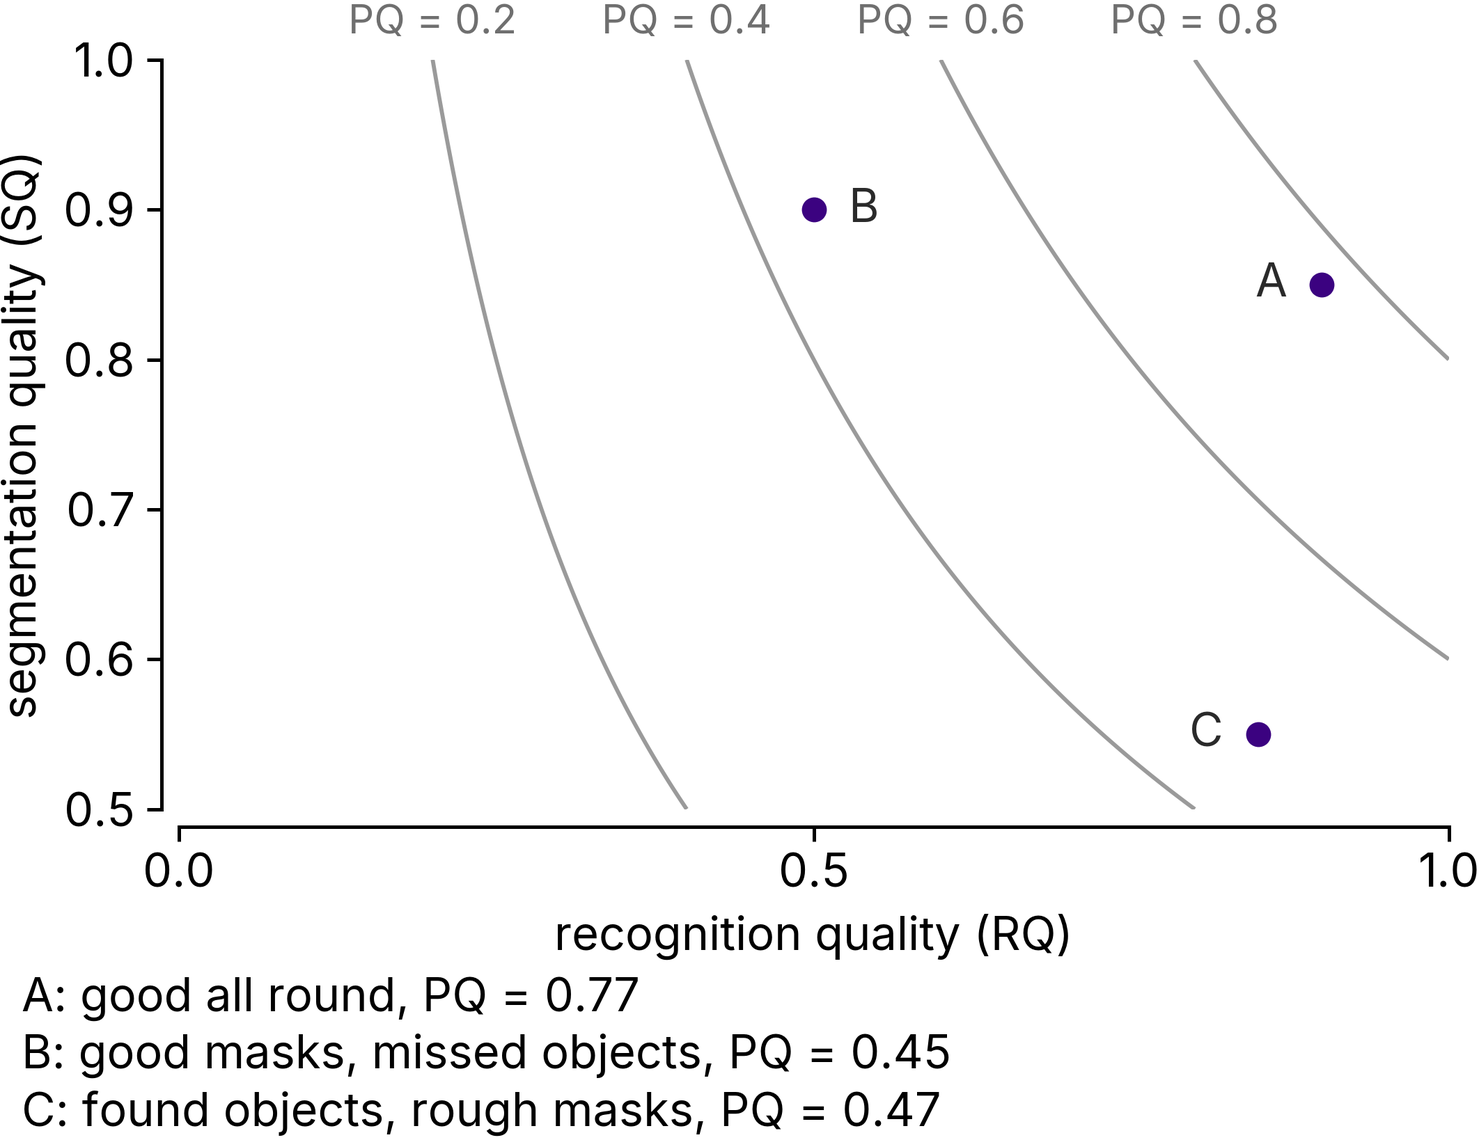
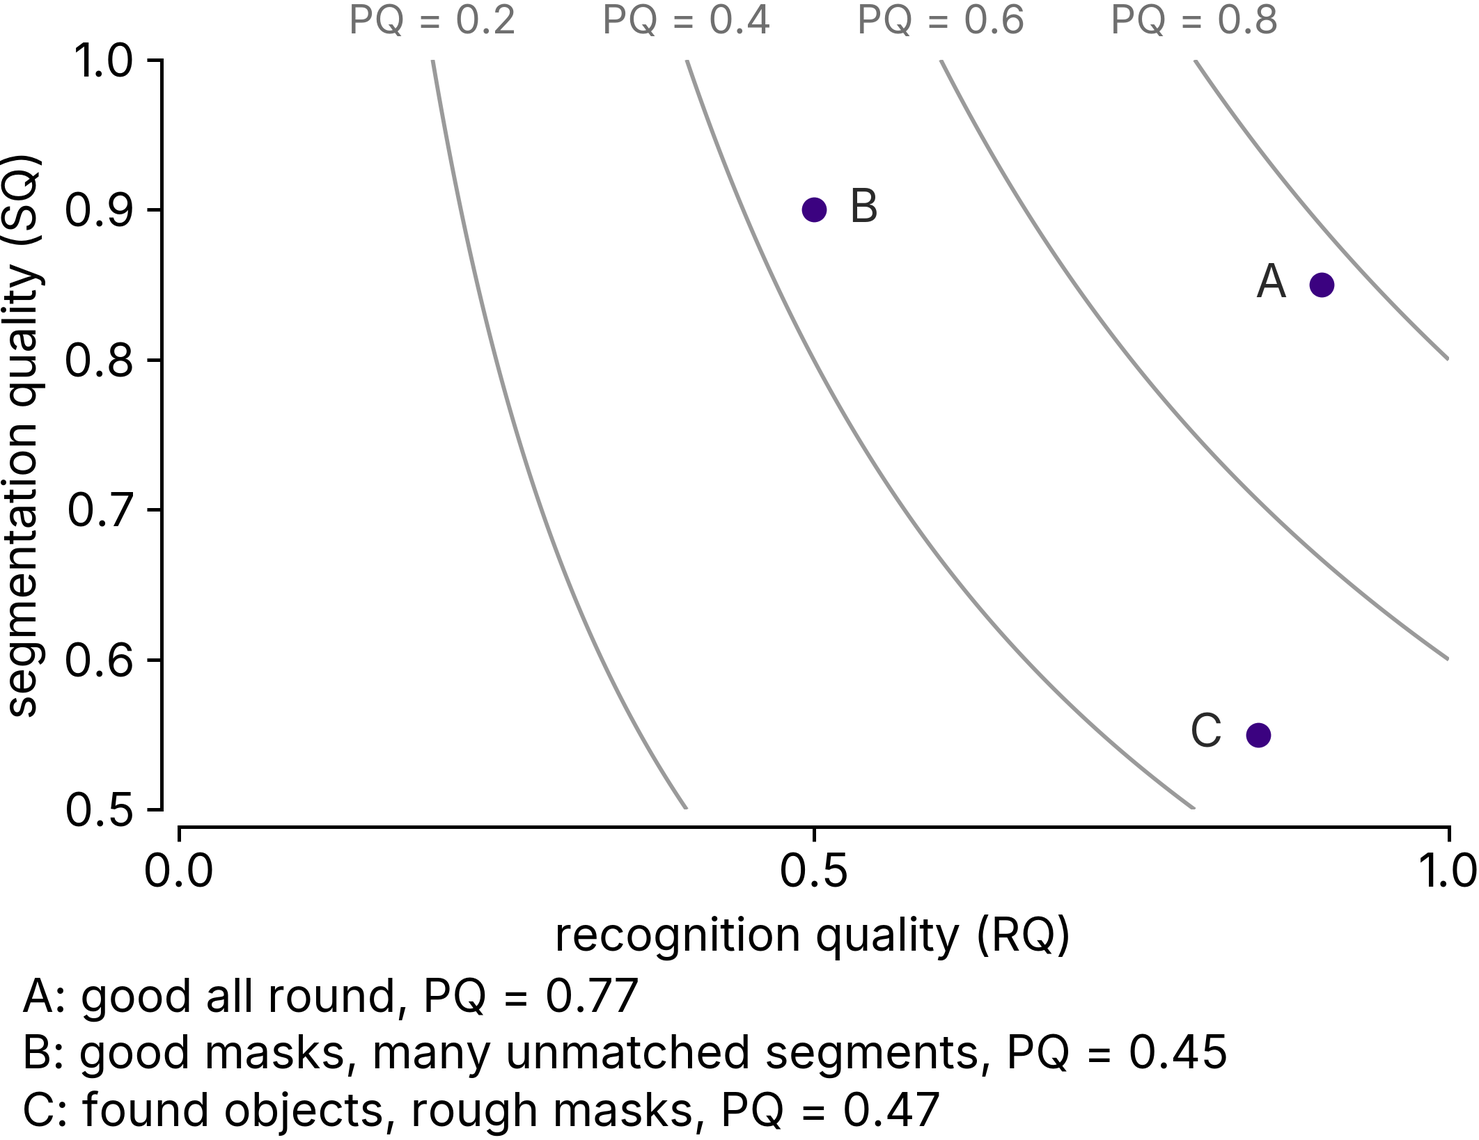
Annotate the remaining formulas and correct decision map labels

diff --git a/book/2-regression.tex b/book/2-regression.tex
@@ -11,10 +11,9 @@ This chapter explains these ways of measuring error and when each is useful. We 
 \begin{forest} dmap, compact
 [, coordinate, l sep=0pt
   [{\dl{a quantile or interval bound}{\mref{Pinball Loss}{sec:pinball-loss}}}]
-  [{\dl{direction only: up or down}{\mref{MDA}{sec:mda}}}]
   [{\dm{a value}{How should we read the error?}}
     [{\dm{in target units}{Penalize big misses more?}}
-      [{\dl{yes}{\mref{MSE}{sec:mse}, \mref{RMSE}{sec:rmse}}}]
+      [{\dl{yes}{\mref{RMSE}{sec:rmse}; \mref{MSE}{sec:mse} in squared units}}]
       [{\dl{no}{\mref{MAE}{sec:mae}}}]
     ]
     [{\dm{as a percentage}{Zeros or tiny target values?}}
@@ -23,15 +22,16 @@ This chapter explains these ways of measuring error and when each is useful. We 
       [{\dl{yes: keep it bounded}{\mref{sMAPE}{sec:smape}}}]
     ]
     [{\dl{against a naive forecast}{\mref{MASE}{sec:mase}}}]
+    [{\dl{by its direction only}{\mref{MDA}{sec:mda}}}]
     [{\dl{in log space}{\mref{MSLE}{sec:msle}, \mref{RMSLE}{sec:rmsle}}}]
     [{\dm{as a deviance}{What kind of target?}}
       [{\dl{counts}{\mref{MPD}{sec:mpd}}}]
       [{\dl{positive and skewed}{\mref{MGD}{sec:mgd}}}]
     ]
-    [{\dm{as a share of\\the variance}{Compared with what?}}
-      [{\dl{squared error, bias included}{\mref{R-squared}{sec:r-squared}}}]
-      [{\dl{any deviance}{\mref{D2}{sec:d2}}}]
-      [{\dl{ignore a constant bias}{\mref{Explained Variance Score}{sec:explained-variance-score}}}]
+    [{\dm{as improvement\\over a baseline}{Which error?}}
+      [{\dl{squared error vs.\ mean}{\mref{R-squared}{sec:r-squared}}}]
+      [{\dl{absolute error vs.\ median}{\mref{D2}{sec:d2}}}]
+      [{\dl{error variance, ignoring\\a constant bias}{\mref{Explained Variance Score}{sec:explained-variance-score}}}]
     ]
   ]
 ]
@@ -551,17 +551,18 @@ MASE divides a model's evaluation MAE by the error of a simple forecast on the t
         \node[inner sep=2pt, font=\Large] (a) {
             {
                 $\displaystyle
-                MASE = \frac{1}{{\color{nmlred}n}} \sum_{t=1}^n \frac{|{\color{nmlcyan}Y_t} - {\color{nmlpurple}\hat{Y}_t}|}{\frac{1}{n-1} \sum_{t=2}^n |{\color{nmlcyan}Y_t} - {\color{nmlcyan}Y_{t-1}}|}
+                MASE = \frac{1}{{\color{nmlred}h}} \sum_{j=1}^{h} \frac{|{\color{nmlcyan}Y_{T+j}} - {\color{nmlpurple}\hat{Y}_{T+j}}|}{\frac{1}{{\color{nmlred}T-1}} \sum_{t=2}^{T} |{\color{nmlcyan}Y_t} - {\color{nmlcyan}Y_{t-1}}|}
                 $
             }
         };
-        \draw[-latex,nmlred, semithick] ($(a.south)+(-1.50,0.25)$) to[bend left=15] node[pos=1, left] {number of samples} +(-1.00,-0.50);
-        \draw[-latex,nmlpurple, semithick] ($(a.north)+(2.30,0.00)$) to[bend left=15] node[pos=1, right] {forecast value} +(1.00,0.50);
-        \draw[-latex,nmlcyan,semithick] ($(a.north)+(1.25,-0.15)$) to[bend right=15] node[pos=1, left] {actual value} +(-1.00,0.50);
+        \draw[-latex,nmlred, semithick] ($(a.north)+(-0.95,-1.12)$) to[bend left=15] node[pos=1, left] {forecasts evaluated} +(-0.90,0.25);
+        \draw[-latex,nmlcyan,semithick] ($(a.north)+(0.55,-0.25)$) to[bend right=15] node[pos=1, left] {actual value} +(-0.60,0.45);
+        \draw[-latex,nmlpurple, semithick] ($(a.north)+(2.55,-0.30)$) to[bend left=15] node[pos=1, right] {forecast value} +(0.80,0.45);
+        \draw[-latex,nmlred, semithick] ($(a.south)+(-0.95,0.45)$) to[bend left=15] node[pos=1, left] {changes in the training history} +(-1.00,-0.40);
     }
 \end{metricformula}
 
-The formula illustrates both averages on one series. For future forecasts, keep the denominator fixed from the training history. MASE $=0.6$ means the model's MAE is $40\%$ below that historical scale; it does not establish that the model beats a naive forecast on the same future period.
+The denominator uses the $T$ values of the training history; the $h$ evaluated forecasts come after it. For seasonal data with period $m$, use $Y_t - Y_{t-m}$ instead. MASE $=0.6$ means the model's MAE is $40\%$ below that historical scale; it does not establish that the model beats a naive forecast on the same future period.
 
 \metricheading{When to use}
 
@@ -607,17 +608,17 @@ MDA measures how often a forecast gets the direction of a change right. A stock-
     \node[inner sep=2pt, font=\Large] (a) {
         {
             $\displaystyle
-            MDA = \frac{1}{{\color{nmlred}n}} \sum_{t=1}^{n} {\color{nmlgreen}\mathds{1}}_{{\color{nmlyellow}sign}({\color{nmlcyan}y_t} - {\color{nmlcyan}y_{t-1}}) == {\color{nmlyellow}sign}({\color{nmlpurple}\hat{y}_t} - {\color{nmlcyan}y_{t-1}})}
+            MDA = \frac{1}{{\color{nmlred}n}} \sum_{t=1}^{n} {\color{nmlgreen}\mathds{1}}\big[\, {\color{nmlyellow}\operatorname{sign}}({\color{nmlcyan}y_t} - {\color{nmlcyan}y_{t-1}}) = {\color{nmlyellow}\operatorname{sign}}({\color{nmlpurple}\hat{y}_t} - {\color{nmlcyan}y_{t-1}}) \,\big]
             $
         }
     };
 
     % Draw arrows for annotations
-    \draw[-latex, nmlred, semithick] ($(a.south)+(-2.05,0.30)$) to[bend left=15] node[pos=1, left,align=center] {number \\ of samples} +(-1.00,-0.50);
-    \draw[-latex,nmlcyan,semithick] ($(a.north)+(0.70,-0.65)$) to[bend right=27] node[pos=1, left] {actual value} +(-0.60,0.85);
-    \draw[-latex, nmlpurple, semithick] ($(a.north)+(3.00,-0.70)$) to[bend left=15] node[pos=1, right,align=center] {forecast\\value} +(1.00,0.50);
-    \draw[-latex, nmlgreen, semithick] ($(a.west)+(3.65,-0.20)$) to[bend right=37] node[pos=1, right] {indicator} +(0.75,-0.60);
-    \draw[-latex, nmlyellow, semithick] ($(a.south)+(2.60,0.50)$) to[bend right=15] node[pos=1, right] {sign function} +(1.00,-0.50);
+    \draw[-latex, nmlred, semithick] ($(a.south)+(-3.38,0.30)$) to[bend left=15] node[pos=1, left,align=center] {number \\ of samples} +(-0.70,-0.40);
+    \draw[-latex, nmlgreen, semithick] ($(a.north)+(-2.20,-0.32)$) to[bend right=15] node[pos=1, left] {indicator} +(-0.60,0.40);
+    \draw[-latex, nmlyellow, semithick] ($(a.south)+(-1.30,0.28)$) to node[pos=1, below] {sign function} +(0.00,-0.30);
+    \draw[-latex, nmlcyan, semithick] ($(a.north)+(-0.68,-0.30)$) to[bend left=15] node[pos=1, right] {actual value} +(0.60,0.40);
+    \draw[-latex, nmlpurple, semithick] ($(a.south)+(2.72,0.30)$) to[bend right=15] node[pos=1, right] {forecast value} +(0.60,-0.40);
     }
 \end{metricformula}
 

diff --git a/book/5-ranking.tex b/book/5-ranking.tex
@@ -11,10 +11,10 @@ For recommendations, we also look beyond relevance. A movie list might suit a vi
 \begin{forest} dmap, wide
 [, coordinate, l sep=0pt
   [{\dm{yes or no}{What matters about the list?}}
-    [{\dl{where the one right answer lands}{\mref{MRR}{sec:mrr}}}]
+    [{\dl{where the first relevant result lands}{\mref{MRR}{sec:mrr}}}]
     [{\dl{whether anything relevant is in the top $K$}{\mref{Hit Rate}{sec:hit-rate}}}]
     [{\dl{how much of the top $K$ is relevant}{\mref{@K Metrics}{sec:k-metrics}}}]
-    [{\dl{the whole order, over all queries}{\mref{MAP}{sec:map}}}]
+    [{\dl{how early all relevant results appear}{\mref{MAP}{sec:map}}}]
   ]
   [{\dm{a grade}{How should position count?}}
     [{\dl{not at all}{\mref{CG}{sec:cg}}}]
@@ -22,9 +22,9 @@ For recommendations, we also look beyond relevance. A movie list might suit a vi
     [{\dl{and comparable across queries}{\mref{nDCG}{sec:ndcg}}}]
   ]
   [{\dl{a rating or a preference:\\is each pair in order?}{\mref{FCP}{sec:fcp}}}]
-  [{\dm{relevance is not\\the question}{Which quality of the list?}}
+  [{\dm{beyond\\relevance}{Which quality of the list?}}
     [{\dl{items unlike each other}{\mref{Diversity}{sec:diversity}}}]
-    [{\dl{new to the user}{\mref{Novelty}{sec:novelty}}}]
+    [{\dl{how uncommon the items are}{\mref{Novelty}{sec:novelty}}}]
     [{\dl{relevant and unexpected}{\mref{Serendipity}{sec:serendipity}}}]
     [{\dl{share of the catalog ever shown}{\mref{Coverage}{sec:coverage}}}]
   ]
@@ -40,15 +40,27 @@ For recommendations, we also look beyond relevance. A movie list might suit a vi
 
 An @K metric evaluates the first $K$ items in a ranking. Precision@$K$ is the fraction of those items that are relevant; Recall@$K$ is the fraction of all relevant items retrieved. With three relevant results in the top five and ten relevant items overall, $Precision@5=3/5$ and $Recall@5=3/10$. Average per-query or per-user scores.
 
-\begin{center}
-    $\displaystyle Precision@K = \frac{|\text{relevant items in top-}K|}{K}$
-\end{center}
+\begin{metricformula}
+    \tikz{
+        \node[inner sep=2pt, font=\Large] (a) {
+            {
+                $\displaystyle
+                Precision@K = \frac{|{\color{nmlcyan}R} \cap {\color{nmlpurple}Top\text{-}K}|}{{\color{nmlred}K}}
+                $
+            }
+        };
 
-Choose $K$ for the stage evaluated. A retriever might supply $100$ candidates to a reranker showing five results: Recall@$100$ checks the candidate pool, Precision@$5$ the final slots. Compare cutoffs to choose a retrieval budget.
+        \draw[-latex,nmlcyan, semithick] ($(a.north)+(0.35,-0.22)$) to[bend right=15] node[pos=1, left] {relevant items} +(-0.80,0.12);
+        \draw[-latex,nmlpurple, semithick] ($(a.north)+(1.68,0.04)$) to[bend left=10] node[pos=1, right] {first $K$ items} +(1.45,-0.08);
+        \draw[-latex,nmlred, semithick] ($(a.east)+(-1.20,-0.38)$) to[bend right=15] node[pos=1, right] {cutoff} +(1.20,0.00);
+    }
+\end{metricformula}
+
+Choose $K$ for the stage evaluated. If a retriever supplies $100$ candidates to a reranker showing five results, Recall@$100$ checks the candidate pool and Precision@$5$ the final slots.
 
 \metricheading{When to use}
 
-Use @K for a limited recommendation window or candidate budget. Compare systems on the same queries, eligible items and cutoff. To isolate a reranker's contribution, also hold its candidate lists fixed. Scores calculated with sampled distractors need not match scores over the full catalog.
+Use @K for a limited recommendation window or candidate budget. Compare systems on the same queries, eligible items and cutoff. To isolate a reranker's contribution, also hold its candidate lists fixed. Scores from sampled distractors need not match full-catalog scores.
 
 \coloredboxes{
     \item Matches what users actually see. $Precision@5$ on a mobile carousel directly measures the relevance of the slice the user is shown.
@@ -546,7 +558,18 @@ Diversity measures how different the items in one list are. The popularity-based
 Novelty measures how unfamiliar recommendations may be to a user. The version here estimates that from item popularity: an item that appears rarely in past interactions gets a higher score. This is a proxy, not evidence that a particular person has never seen it. A rare film may already be familiar to its biggest fan.
 
 \begin{metricformula}
-\tikz{\node[inner sep=2pt,font=\Large] {$\displaystyle\operatorname{Novelty}(i)=-\log_2 P(i)$};}
+    \tikz{
+        \node[inner sep=2pt, font=\Large] (a) {
+            {
+                $\displaystyle
+                \operatorname{Novelty}({\color{nmlpurple}i}) = -\log_2 {\color{nmlcyan}P}({\color{nmlpurple}i})
+                $
+            }
+        };
+
+        \draw[-latex,nmlpurple, semithick] ($(a.south)+(-0.62,0.22)$) to[bend left=15] node[pos=1, left] {recommended item} +(-1.00,-0.40);
+        \draw[-latex,nmlcyan, semithick] ($(a.north)+(1.70,-0.08)$) to[bend left=15] node[pos=1, right] {item's share of past interactions} +(0.50,0.30);
+    }
 \end{metricformula}
 
 Let $P(i)$ be the fraction of historical interactions involving item $i$. An item with $P(i) = 0.5$ scores $1$ bit; one with $P(i) = 0.01$ scores about $6.6$ bits. Average item scores to evaluate a list. Zero-count items need an explicit policy, such as smoothing the counts, because $\log 0$ is undefined.

diff --git a/book/3-classification.tex b/book/3-classification.tex
@@ -11,24 +11,24 @@ Many classifiers also predict probabilities. A filter may flag email once its sp
 \begin{forest} dmap, compact
 [, coordinate, l sep=0pt
   [{\dm{probabilities}{What should the score show?}}
-    [{\dl{a training loss}{\mref{Log Loss}{sec:log-loss}}}]
-    [{\dl{a bounded score}{\mref{Brier Score Loss}{sec:brier-score-loss}}}]
+    [{\dl{punishes confident errors}{\mref{Log Loss}{sec:log-loss}}}]
+    [{\dl{squared probability error}{\mref{Brier Score Loss}{sec:brier-score-loss}}}]
     [{\dl{skill over the base rate}{\mref{D-squared Log Loss Score}{sec:d-squared-log-loss-score}}}]
   ]
-  [{\dm{ranking before a threshold}{Are positives rare?}}
-    [{\dl{yes}{\mref{PR AUC}{sec:pr-auc}}}]
-    [{\dl{no}{\mref{ROC AUC}{sec:roc-auc}}}]
+  [{\dm{ranking before a threshold}{What should it show?}}
+    [{\dl{positives above negatives}{\mref{ROC AUC}{sec:roc-auc}}}]
+    [{\dl{precision on the positives}{\mref{PR AUC}{sec:pr-auc}}}]
   ]
   [{\dm{labels at\\a threshold}{Know the error costs?}}
     [{\dl{yes}{\mref{EC}{sec:ec}}}]
-    [{\dl{no; balanced classes}{\mref{Accuracy}{sec:accuracy}}}]
-    [{\dm{no; classes\\are imbalanced}{Which error is costlier?}}
+    [{\dl{no; overall share correct}{\mref{Accuracy}{sec:accuracy}}}]
+    [{\dm{no; specific\\error types}{Which errors matter?}}
       [{\dl{missed positives}{\mref{TPR (Recall)}{sec:tpr-recall-sensitivity}, \mref{FNR}{sec:fnr}}}]
       [{\dl{false alarms among flags}{\mref{Precision}{sec:precision}}}]
       [{\dl{false alarms per negative}{\mref{FPR}{sec:fpr}, \mref{TNR}{sec:tnr-specificity}}}]
       [{\dl{both, traded off}{\mref{F1-score}{sec:f1-score}, \mref{F-beta}{sec:f-beta}}}]
       [{\dl{both, in one score}{\mref{MCC}{sec:mcc}, \mref{Balanced Accuracy}{sec:balanced-accuracy}, \mref{P4-metric}{sec:p4-metric}}}]
-      [{\dl{neither: overlap of the\\positive sets}{\mref{Jaccard Index}{sec:jaccard-index}}}]
+      [{\dl{overlap of predicted\\and actual positives}{\mref{Jaccard Index}{sec:jaccard-index}}}]
     ]
   ]
   [{\dl{agreement between raters}{\mref{Cohen's Kappa}{sec:cohen-s-kappa}}}]
@@ -680,18 +680,17 @@ ROC AUC measures how well a model ranks positive cases above negative ones. Chan
         \node[inner sep=2pt, font=\Large] (a) {
             {
                 $\displaystyle
-                \text{ROC AUC} = \int_{0}^{1} {\color{nmlpurple}TPR}\big({\color{nmlcyan}FPR}^{-1}({\color{nmlyellow}x})\big) \, d{\color{nmlyellow}x}
+                \text{ROC AUC} = \int_{{\color{nmlyellow}0}}^{{\color{nmlyellow}1}} {\color{nmlpurple}TPR}({\color{nmlyellow}FPR}) \, d{\color{nmlyellow}FPR}
                 $
             }
         };
 
-        \draw[-latex,nmlpurple, semithick] ($(a.north)+(0.14,-0.46)$) to[bend right=15] node[pos=1, left] {true positive rate} +(-1.00,0.70);
-        \draw[-latex,nmlcyan, semithick] ($(a.north)+(1.53,-0.46)$) to[bend left=15] node[pos=1, right] {false positive rate} +(1.00,0.61);
-        \draw[-latex,nmlyellow, semithick] ($(a.south)+(2.86,0.51)$) to[bend left=15] node[pos=1, left] {swept from $0$ to $1$} +(-1.00,-0.64);
+        \draw[-latex,nmlpurple, semithick] ($(a.north)+(0.40,-0.46)$) to[bend right=15] node[pos=1, left] {true positive rate} +(-1.00,0.60);
+        \draw[-latex,nmlyellow, semithick] ($(a.north)+(1.55,-0.46)$) to[bend left=15] node[pos=1, right] {false positive rate, from $0$ to $1$} +(0.80,0.60);
     }
 \end{metricformula}
 
-An AUC of $1$ means perfect ordering, while random rankings have expected AUC $0.5$. Reversing a perfect ranking gives $0$, not $0.5$. Higher values mean better overall ordering, but what is useful depends on the task.
+The curve joins the points from each threshold with straight lines, and the area beneath them is calculated with the trapezoidal rule. An AUC of $1$ means perfect ordering, while random rankings have expected AUC $0.5$. Reversing a perfect ranking gives $0$, not $0.5$. Higher values mean better overall ordering, but what is useful depends on the task.
 
 Another way to read AUC is to pick a positive and a negative at random. With AUC $0.90$, the positive ranks higher $90\%$ of the time if there are no ties. Tied scores count as half a correct ordering.
 

diff --git a/book/4-clustering.tex b/book/4-clustering.tex
@@ -7,7 +7,7 @@ Without topic labels, we can still examine how close the documents in each clust
 
 % ---------- Decision map ----------
 \begin{decisionmap}{orangelight}{orangeaccent}{Which clustering metric?}{Follow the branches to a metric. The number next to it is its page.}
-\maproot{Do you have ground-truth classes?}
+\maproot{Do you have reference labels or another clustering?}
 \begin{forest} dmap, wide
 [, coordinate, l sep=0pt
   [{\dm{yes}{How do you compare the two labelings?}}
@@ -21,13 +21,13 @@ Without topic labels, we can still examine how close the documents in each clust
     [{\dl{both at once}{\mref{V-Measure}{sec:v-measure}}}]
   ]
   [{\dm{no}{What makes a cluster good?}}
-    [{\dl{points close to their own cluster}{\mref{Silhouette Score}{sec:silhouette-score}}}]
+    [{\dl{points closer to their own cluster\\than to the next one}{\mref{Silhouette Score}{sec:silhouette-score}}}]
     [{\dl{clusters far apart relative to their spread}{\mref{CH Index}{sec:ch-index}}}]
     [{\dl{far from the most similar cluster}{\mref{Davies-Bouldin Index}{sec:davies-bouldin-index}}}]
   ]
 ]
 \end{forest}
-\mapnotes{Check some clusters yourself, even when the scores look good. Distance-based scores judge how tightly points group together and how far apart the groups lie; they do not tell you whether those groups are useful for your task.}
+\mapnotes{Check some clusters yourself, even when the scores look good. Distance-based scores judge how tightly points group together and how far apart the groups lie; they do not tell you whether those groups are useful for your task. The scores that need no labels also apply when you have them.}
 \end{decisionmap}
 
 
@@ -354,7 +354,7 @@ When the task requires that all members of a class stay together: topic modeling
     \includegraphics[width=\textwidth]{figures/Completeness_Score_tradeoff.png}
 \end{metricfigure}
 
-\metriccaption{Figure. Completeness Score.}{Three clusterings of the same $3$-class data. With $k=3$, both scores hit $1$. Collapsing into one big cluster keeps Completeness at $1$ (every class is fully contained somewhere) but sends Homogeneity to $0$ --- the inflation that makes Completeness misleading on its own. Over-splitting into $k=9$ does the opposite: every cluster is pure, but each class spreads across multiple clusters and Completeness falls to $0.50$.}
+\metriccaption{Figure. Completeness Score.}{Three clusterings of the same $3$-class data. Dot colors mark the predicted clusters; with $k=9$, each class splits into three clusters, drawn in three shades of its color. With $k=3$, both scores hit $1$. Collapsing into one big cluster keeps Completeness at $1$ (every class is fully contained somewhere) but sends Homogeneity to $0$ --- the inflation that makes Completeness misleading on its own. Over-splitting into $k=9$ does the opposite: every cluster is pure, but each class spreads across multiple clusters and Completeness falls to $0.50$.}
 
 \orangebox{Did you know that...}
 {Completeness and Homogeneity are the same formula with the arguments swapped: $\text{Homogeneity} = 1 - H(C \mid K)/H(C)$ and $\text{Completeness} = 1 - H(K \mid C)/H(K)$. So Completeness on (true, predicted) equals Homogeneity on (predicted, true). This is why V-Measure --- the harmonic mean of the two --- is symmetric in its arguments when $\beta=1$, giving the two components equal weight.}

diff --git a/book/8-genai.tex b/book/8-genai.tex
@@ -25,16 +25,16 @@ and how they changed as models improved.}{In this chapter}
     [{\dl{nothing: quality and diversity of a set}{\mref{IS}{sec:is}}}]
     [{\dl{a reference set}{\mref{FID}{sec:fid}}}]
     [{\dl{one reference image}{\mref{LPIPS}{sec:lpips}}}]
-    [{\dm{the prompt}{How thoroughly?}}
-      [{\dl{one similarity score}{\mref{CLIP Score}{sec:clip-score}}}]
-      [{\dl{a question per detail}{\mref{DSG}{sec:dsg}}}]
-      [{\dl{one yes/no probability}{\mref{VQAScore}{sec:vqascore}}}]
+    [{\dm{the prompt}{One score or per detail?}}
+      [{\dl{one fast score:\\embedding similarity}{\mref{CLIP Score}{sec:clip-score}}}]
+      [{\dl{one score that checks\\composition}{\mref{VQAScore}{sec:vqascore}}}]
+      [{\dl{per detail: which\\ones failed}{\mref{DSG}{sec:dsg}}}]
     ]
   ]
-  [{\dm{speech or audio}{Who judges?}}, text width=2.6cm
-    [{\dl{people}{\mref{MOS}{sec:mos}}}]
-    [{\dl{an algorithm: how good\\it sounds}{\mref{PESQ}{sec:pesq}}}]
-    [{\dl{an algorithm: how easily\\words are understood}{\mref{STOI}{sec:stoi}}}]
+  [{\dm{speech or audio}{What to measure?}}, text width=2.6cm
+    [{\dl{quality, rated by listeners}{\mref{MOS}{sec:mos}}}]
+    [{\dl{quality, predicted against\\a clean reference}{\mref{PESQ}{sec:pesq}}}]
+    [{\dl{intelligibility, predicted\\against a clean reference}{\mref{STOI}{sec:stoi}}}]
   ]
 ]
 \end{forest}

diff --git a/book/10-bias-fairness.tex b/book/10-bias-fairness.tex
@@ -318,7 +318,7 @@ Use it when decisions depend on estimated probabilities, such as the chance of r
     \includegraphics[width=1\textwidth]{figures/Calibration_within_Groups.png}
 \end{metricfigure}
 
-\metriccaption{Figure. Calibration within Groups.}{Scores are grouped into ranges; each filled square is $10\%$ of the people in a range who turn out to be qualified. The black line marks the range's midpoint, where a calibrated score would put the fill. The scores are calibrated for both groups combined, yet Group A (cyan) sits above the line and Group B (purple) below it.}
+\metriccaption{Figure. Calibration within Groups.}{Scores are grouped into ranges; each filled square is $10\%$ (rounded) of the people in a range who turn out to be qualified. The black line marks the range's midpoint, where a calibrated score would put the fill. The scores are calibrated for both groups combined, yet Group A (cyan) sits above the line and Group B (purple) below it.}
 
 For scores between $0.5$ and $0.6$, about $70\%$ of Group A is qualified, compared with $38\%$ of Group B. The model therefore understates the probability for A and overstates it for B, and the same happens in every range. The scores are calibrated overall but not within these groups.
 

diff --git a/book/11-data-observability.tex b/book/11-data-observability.tex
@@ -246,12 +246,12 @@ Duplicate percentage shows what share of rows in a partition have a repeated key
         \node[inner sep=2pt, font=\Large] (a) {
             {
                 $\displaystyle
-                \text{dup}\%_t = 100 \cdot \frac{1}{{\color{nmlred}|R|}} \sum_{r \in R} \mathds{1}\big[\, {\color{nmlred}n(v_r)} > 1 \,\big]
+                \text{dup}\%_t = 100 \cdot \frac{1}{{\color{nmlred}|R|}} \sum_{r \in R} \mathds{1}\big[\, {\color{nmlcyan}n(v_r)} > 1 \,\big]
                 $
             }
         };
         \draw[-latex,nmlred, semithick] ($(a.south)+(-0.29,0.25)$) to node[pos=1, below] (obsannotation1) {records with a non-null value} +(0.00,-0.30);
-        \draw[-latex,nmlred, semithick] ($(a.north)+(2.10,-0.33)$) to node[pos=1, above] (obsannotation2) {how often record $r$'s value occurs} +(0.00,0.33);
+        \draw[-latex,nmlcyan, semithick] ($(a.north)+(2.10,-0.33)$) to node[pos=1, above] (obsannotation2) {how often record $r$'s value occurs} +(0.00,0.33);
 
 
     }

diff --git a/notebooks/cv_figures.py b/notebooks/cv_figures.py
@@ -265,7 +265,7 @@ def pq():
     for v in levels:
         ax.text(v, 1.012, f'PQ = {v:g}', ha='center', va='bottom', color=MUTED, fontsize=SMALL_PT)
     models = [('A', 'good all round', 0.90, 0.85, (-6, 0), 'right'),
-              ('B', 'good masks, missed objects', 0.50, 0.90, (6, 0), 'left'),
+              ('B', 'good masks, many unmatched segments', 0.50, 0.90, (6, 0), 'left'),
               ('C', 'found objects, rough masks', 0.85, 0.55, (-6, 0), 'right')]
     lines = []
     for letter, desc, rq, sq, off, ha in models:
